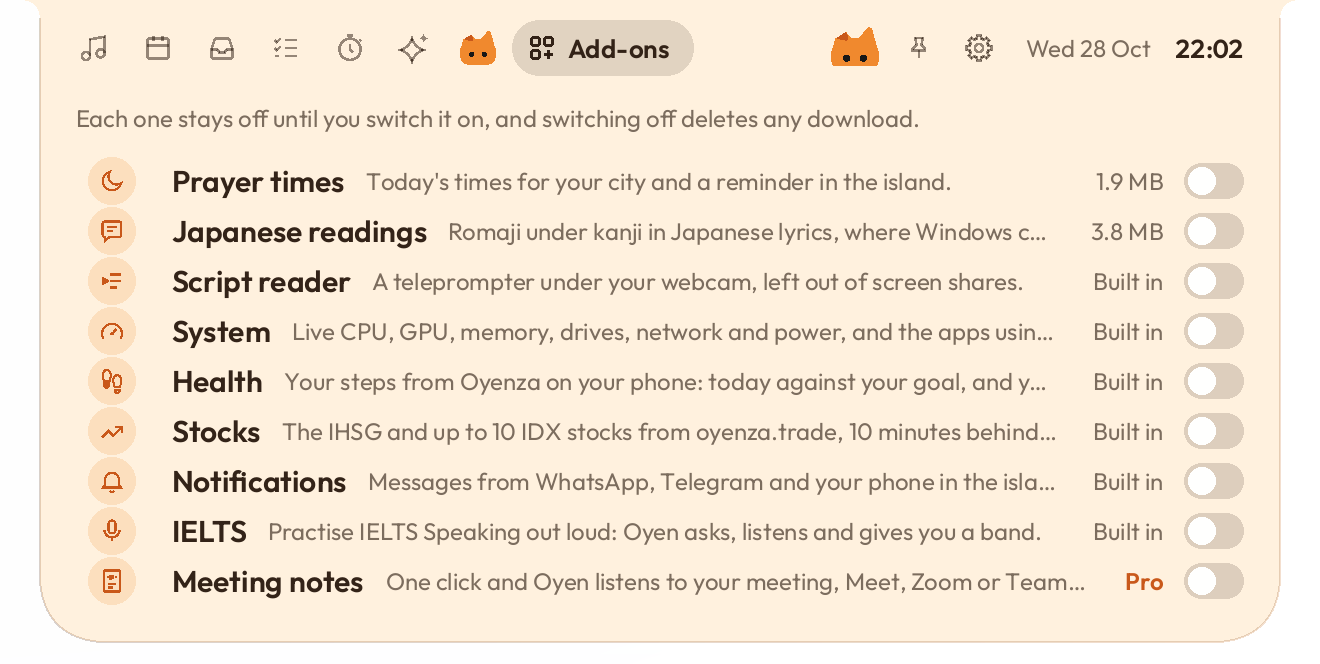
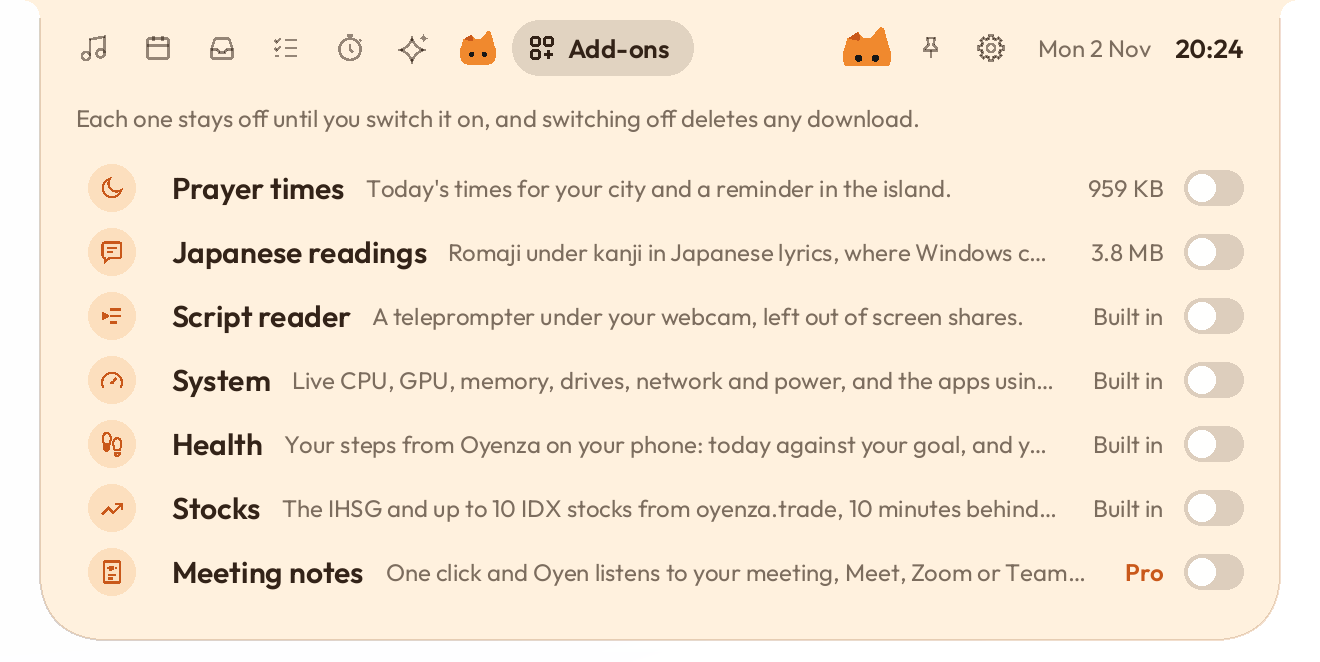
Release 0.2.25
A clearer adzan (#199, add-on files from addon-sholat-3), Antigravity on the AI tab on a Mac (#192), Notifications out of Add-ons and on by default where it can work (#165), the island over other apps' top bars on Windows (#166) and no double-tap zoom on Phone drop's QR page (#190). Version 0.2.25 in the usual files, notes in docs/release-notes/v0.2.25.md, and the website: New in 0.2.25 band (A clearer adzan and Antigravity on the AI tab first; Meeting notes on the Mac moves to the sheet under 0.2.19), the hero line and sidebar, Prayer times at 959 KB without "recorded at Masjidil Haram", the Add-ons pictures retaken (Notifications gone), and Antigravity in the AI sheet.

diff --git a/site/index.html b/site/index.html
@@ -724,7 +724,7 @@ dialog.more-sheet::backdrop { background: rgba(0, 0, 0, 0.42); -webkit-backdrop-
     <div class="side-sec">
       <p class="side-group">Overview</p>
       <a class="side-item" href="#top" data-k="home start download hero notch island"><i class="ic" style="--c:#1d1d1f"><svg class="ico"><use href="#i-screen"/></svg></i><span>A living notch</span></a>
-      <a class="side-item" href="#new" data-k="new release 0.2.23 latest changes move the island drag along the top edge left right side browser tabs out of the way centre center mac macbook notch pill menu bar settings in the island againgear advanced settings window island closes update in version row check now settings window glides smooth motion 144 fps 120 hz promotion slide switches highlight trackpad scroll reduce motion downloader progress youtube puzzle solving meeting notes mac ielts coach speaking band downloader video sound studio pro settings window gear every setting one place sidebar light dark mode mac window title bar meeting notes record call transcript summary action items pro ai tab usage codex claude code opencode go gemini cursor copilot kimi glm minimax openrouter limits plans resets heads-up tabs hide switch off music today shelf tasks focus prayer countdown ok lyrics come back steps two hours ielts notifications whatsapp telegram mac signed developer id notarized checked by apple opens open anyway gone privacy security permissions once more right click menu stays open island stays open always looks for new versions version check now bluetooth pop-ups headphones speakers paired quiet connected disconnected check for updates every hour check now update available stays lyrics bar zen firefox stocks prices fixed getting prices mac updates install in place ihsg idx saham watchlist chart oyenza.trade today five weeks week ahead schedule month grid dots allow turn on prayer times anywhere world city mac youtube spotify browser now playing pill notch oyen oyenza tab system health add-ons clipboard history gone today your day google calendar gmail meeting join flights bills clipboard add-on touch screen tablet taps tap through notch eyes hide and seek macbook camera update available new version install now next start updater mac installer dmg window steps health oyenza sign in mac headphones full screen power island stays maximized windows sing along romaji lyrics mac prayer script reader teleprompter games power"><i class="ic" style="--c:#bf4800"><svg class="ico"><use href="#i-spark"/></svg></i><span>New in 0.2.23</span></a>
+      <a class="side-item" href="#new" data-k="new release 0.2.25 latest changes clearer adzan azan athan adhan prayer times sound recording antigravity agy ai tab mac top bar mydockfinder menu bar over notifications store tabs phone drop double tap zoom move the island drag along the top edge left right side browser tabs out of the way centre center mac macbook notch pill menu bar settings in the island againgear advanced settings window island closes update in version row check now settings window glides smooth motion 144 fps 120 hz promotion slide switches highlight trackpad scroll reduce motion downloader progress youtube puzzle solving meeting notes mac ielts coach speaking band downloader video sound studio pro settings window gear every setting one place sidebar light dark mode mac window title bar meeting notes record call transcript summary action items pro ai tab usage codex claude code opencode go gemini cursor copilot kimi glm minimax openrouter limits plans resets heads-up tabs hide switch off music today shelf tasks focus prayer countdown ok lyrics come back steps two hours ielts notifications whatsapp telegram mac signed developer id notarized checked by apple opens open anyway gone privacy security permissions once more right click menu stays open island stays open always looks for new versions version check now bluetooth pop-ups headphones speakers paired quiet connected disconnected check for updates every hour check now update available stays lyrics bar zen firefox stocks prices fixed getting prices mac updates install in place ihsg idx saham watchlist chart oyenza.trade today five weeks week ahead schedule month grid dots allow turn on prayer times anywhere world city mac youtube spotify browser now playing pill notch oyen oyenza tab system health add-ons clipboard history gone today your day google calendar gmail meeting join flights bills clipboard add-on touch screen tablet taps tap through notch eyes hide and seek macbook camera update available new version install now next start updater mac installer dmg window steps health oyenza sign in mac headphones full screen power island stays maximized windows sing along romaji lyrics mac prayer script reader teleprompter games power"><i class="ic" style="--c:#bf4800"><svg class="ico"><use href="#i-spark"/></svg></i><span>New in 0.2.25</span></a>
       <a class="side-item" href="#highlights" data-k="best gallery overview"><i class="ic" style="--c:#ff9f0a"><svg class="ico"><use href="#i-spark"/></svg></i><span>Highlights</span></a>
       <a class="side-item" href="#features" data-k="rest idle music timer volume charging headphones bluetooth money clock eyes prayer countdown"><i class="ic" style="--c:#636366"><svg class="ico"><use href="#i-island"/></svg></i><span>While it rests</span></a>
     </div>
@@ -733,7 +733,7 @@ dialog.more-sheet::backdrop { background: rgba(0, 0, 0, 0.42); -webkit-backdrop-
       <a class="side-item" href="#music" data-k="music lyrics spotify apple youtube lrclib songs"><i class="ic" style="--c:#ff2d55"><svg class="ico"><use href="#i-music"/></svg></i><span>Music and lyrics</span></a>
       <a class="side-item" href="#read-along" data-k="korean japanese chinese romaji pinyin pronunciation reading kanji"><i class="ic" style="--c:#af52de"><svg class="ico"><use href="#i-lang"/></svg></i><span>Read along</span></a>
       <a class="side-item" href="#focus" data-k="pomodoro timer focus"><i class="ic" style="--c:#5856d6"><svg class="ico"><use href="#i-timer"/></svg></i><span>Focus</span></a>
-      <a class="side-item" href="#ai" data-k="ai usage codex claude code opencode go gemini cli cursor github copilot kimi code z.ai zai glm minimax openrouter oyenza inference limits plan quota credits balance spend resets heads-up notices new"><i class="ic" style="--c:#00c7be"><svg class="ico"><use href="#i-meter"/></svg></i><span>AI usage</span><span class="tag">New</span></a>
+      <a class="side-item" href="#ai" data-k="ai usage codex claude code opencode go gemini cli antigravity agy cursor github copilot kimi code z.ai zai glm minimax openrouter oyenza inference limits plan quota credits balance spend resets heads-up notices new"><i class="ic" style="--c:#00c7be"><svg class="ico"><use href="#i-meter"/></svg></i><span>AI usage</span><span class="tag">New</span></a>
       <a class="side-item" href="#health" data-k="steps health apple health connect add-on"><i class="ic" style="--c:#34c759"><svg class="ico"><use href="#i-steps"/></svg></i><span>Health</span></a>
       <a class="side-item" href="#shelf" data-k="files shelf drag drop"><i class="ic" style="--c:#007aff"><svg class="ico"><use href="#i-tray"/></svg></i><span>Shelf</span></a>
       <a class="side-item" href="#tasks" data-k="todo to-do tasks list"><i class="ic" style="--c:#ff9500"><svg class="ico"><use href="#i-list"/></svg></i><span>Tasks</span></a>
@@ -823,9 +823,9 @@ dialog.more-sheet::backdrop { background: rgba(0, 0, 0, 0.42); -webkit-backdrop-
           <div class="hero-copy">
             <h1 class="t-hero-eyebrow">Oyenza Studio</h1>
             <p class="t-hero">A living notch.</p>
-            <a class="t-avail" href="#new">New in 0.2.23: drag the island along the top edge on a Mac too, as on Windows.</a>
+            <a class="t-avail" href="#new">New in 0.2.25: a clearer adzan, and Antigravity on the AI tab on a Mac.</a>
             <div class="buybox">
-              <div><b>Free for Windows and Mac</b><span class="fine">Open source · Windows <span data-release="size">3.2&nbsp;MB</span> · Mac <span data-release="mac-size">5.8&nbsp;MB</span> · <a class="notes" data-release="notes" href="https://github.com/lucacadalora/oyenza-studio/releases/latest">What's new in <span data-release="version">0.2.24</span></a></span></div>
+              <div><b>Free for Windows and Mac</b><span class="fine">Open source · Windows <span data-release="size">3.2&nbsp;MB</span> · Mac <span data-release="mac-size">5.8&nbsp;MB</span> · <a class="notes" data-release="notes" href="https://github.com/lucacadalora/oyenza-studio/releases/latest">What's new in <span data-release="version">0.2.25</span></a></span></div>
               <a class="btn dl-primary" href="https://github.com/lucacadalora/oyenza-studio/releases/latest/download/Oyenza-Studio-Setup.exe"><span class="dl-word">Download</span><span class="send-word">Send to your computer</span></a>
             </div>
             <a class="link hero-other dl-other" data-release="mac-link" href="https://github.com/lucacadalora/oyenza-studio/releases/latest/download/Oyenza-Studio-Mac.dmg">Download for Mac</a>
@@ -845,20 +845,17 @@ dialog.more-sheet::backdrop { background: rgba(0, 0, 0, 0.42); -webkit-backdrop-
 
   <section class="sec band" id="new" aria-labelledby="new-title">
     <div class="content head rv">
-      <h2 class="t-l" id="new-title">New in 0.2.24.</h2>
+      <h2 class="t-l" id="new-title">New in 0.2.25.</h2>
       <button class="more" type="button" data-more="m-new">Everything new, release by release<i><svg class="ico"><use href="#i-plus"/></svg></i></button>
     </div>
     <div class="content news">
+      <a class="news-tile shot rv" href="#prayer">
+        <span class="news-visual top left" aria-hidden="true"><img class="look-classic" src="assets/shots/classic/page-prayer.webp" alt="" width="660" height="225" loading="lazy"><img class="look-oyen" src="assets/shots/oyen/page-prayer.webp" alt="" width="660" height="225" loading="lazy"></span>
+        <p class="t-card">A clearer adzan</p><p class="t-tile">Prayer times plays a new recording of the adzan: clear and full, without the crowd and the echo of the old one. The add-on is 959&nbsp;KB now, half its old size.</p>
+      </a>
       <a class="news-tile shot rv" href="#ai">
         <span class="news-visual top right" aria-hidden="true"><img class="look-classic" src="assets/shots/classic/page-ai.webp" alt="" width="660" height="335" loading="lazy"><img class="look-oyen" src="assets/shots/oyen/page-ai.webp" alt="" width="660" height="335" loading="lazy"></span>
-        <p class="t-card">Claude and Cursor are back</p><p class="t-tile">Use Claude Code through the Claude app? The AI tab shows your Claude plan now, and a signed-out card has a Sign in button. Cursor 3.27 reads again too.</p>
-      </a>
-      <a class="news-tile shot wide rv" href="#on-top">
-        <span class="news-visual" aria-hidden="true">
-          <span class="browser-top"><span class="browser-strip"></span><span class="browser-tabs"><span class="browser-tab on"><i></i><span>Inbox</span></span><span class="browser-tab"><i></i><span>Docs</span></span><span class="browser-new">+</span></span><svg class="browser-ctl" viewBox="0 0 108 31"><path d="M13 15.5h10M49.5 11h9v9h-9zM85.5 11l9 9m0-9-9 9"/></svg><span class="browser-url">Search or type a URL</span></span>
-          <span class="browser-isl"><img class="look-classic" src="assets/shots/classic/media-activity.webp" alt="" width="702" height="65" loading="lazy"><img class="look-oyen" src="assets/shots/oyen/media-activity.webp" alt="" width="654" height="65" loading="lazy"><svg class="browser-cursor" viewBox="0 0 28 16"><path d="M1.5 8 7.5 2v4h13V2l6 6-6 6v-4h-13v4z" fill="#000" stroke="#fff" stroke-width="1.4" stroke-linejoin="round"/></svg></span>
-        </span>
-        <p class="t-card">Move the island</p><p class="t-tile">Press the island and drag it along the top edge, out of your browser's tabs. It stays there, and opens away from the edge. On Windows, and now on a Mac: in every theme without a notch, and in Pill around a MacBook's notch.</p>
+        <p class="t-card">Antigravity on the AI tab</p><p class="t-tile">On a Mac, the AI tab shows Antigravity's 5-hour and weekly limits for each group of models. Since 0.2.24 it reads your Claude plan through the Claude app, and Cursor 3.27.</p>
       </a>
       <a class="news-tile shot rv" href="#settings">
         <span class="news-visual top left" aria-hidden="true"><img class="look-classic" src="assets/shots/classic/page-settings.webp" alt="" width="660" height="333" loading="lazy"><img class="look-oyen" src="assets/shots/oyen/page-settings.webp" alt="" width="660" height="333" loading="lazy"></span>
@@ -868,9 +865,12 @@ dialog.more-sheet::backdrop { background: rgba(0, 0, 0, 0.42); -webkit-backdrop-
         <span class="news-visual top left" aria-hidden="true"><img class="look-classic" src="assets/shots/classic/settings-window-appearance.webp" alt="" width="840" height="600" loading="lazy"><img class="look-oyen" src="assets/shots/oyen/settings-window-appearance.webp" alt="" width="840" height="600" loading="lazy"></span>
         <p class="t-card">Advanced settings that glide</p><p class="t-tile">Every setting in one window, light or dark like your system. Switches slide and highlights glide at your screen's own rate, up to 144 frames a second, on Windows and Mac.</p>
       </a>
-      <a class="news-tile shot rv" href="#pricing">
-        <span class="news-visual top left" aria-hidden="true"><img class="look-classic" src="assets/shots/mac/classic/page-notes-listening.webp" alt="" width="710" height="320" loading="lazy"><img class="look-oyen" src="assets/shots/mac/oyen/page-notes-listening.webp" alt="" width="710" height="320" loading="lazy"></span>
-        <p class="t-card">Meeting notes on the Mac</p><p class="t-tile">Oyen listens to your call through your Mac's microphone and its own sound, then writes the summary, the decisions and the whole transcript. Studio Pro; the Mac's own sound needs macOS 14.2 or later.</p>
+      <a class="news-tile shot wide rv" href="#on-top">
+        <span class="news-visual" aria-hidden="true">
+          <span class="browser-top"><span class="browser-strip"></span><span class="browser-tabs"><span class="browser-tab on"><i></i><span>Inbox</span></span><span class="browser-tab"><i></i><span>Docs</span></span><span class="browser-new">+</span></span><svg class="browser-ctl" viewBox="0 0 108 31"><path d="M13 15.5h10M49.5 11h9v9h-9zM85.5 11l9 9m0-9-9 9"/></svg><span class="browser-url">Search or type a URL</span></span>
+          <span class="browser-isl"><img class="look-classic" src="assets/shots/classic/media-activity.webp" alt="" width="702" height="65" loading="lazy"><img class="look-oyen" src="assets/shots/oyen/media-activity.webp" alt="" width="654" height="65" loading="lazy"><svg class="browser-cursor" viewBox="0 0 28 16"><path d="M1.5 8 7.5 2v4h13V2l6 6-6 6v-4h-13v4z" fill="#000" stroke="#fff" stroke-width="1.4" stroke-linejoin="round"/></svg></span>
+        </span>
+        <p class="t-card">Move the island</p><p class="t-tile">Press the island and drag it along the top edge, out of your browser's tabs. It stays there, and opens away from the edge. On Windows, and now on a Mac: in every theme without a notch, and in Pill around a MacBook's notch.</p>
       </a>
     </div>
   </section>
@@ -1209,7 +1209,7 @@ dialog.more-sheet::backdrop { background: rgba(0, 0, 0, 0.42); -webkit-backdrop-
     <div class="content head rv">
       <p class="t-label">Prayer times</p>
       <h3 class="t-l" id="prayer-title">Prayer times, for your city.</h3>
-      <p class="t-intro">As <b>Kemenag RI</b> publishes them, with a live countdown, today on one arc, the qibla and the adzan. New in 0.2.3: on the Mac too.</p>
+      <p class="t-intro">As <b>Kemenag RI</b> publishes them, with a live countdown, today on one arc, the qibla and the adzan, on Windows and Mac. New in 0.2.25: a clearer adzan.</p>
       <button class="more" type="button" data-more="m-prayer">More about prayer times<i><svg class="ico"><use href="#i-plus"/></svg></i></button>
     </div>
     <div class="content">
@@ -1224,7 +1224,7 @@ dialog.more-sheet::backdrop { background: rgba(0, 0, 0, 0.42); -webkit-backdrop-
       <div class="stats">
         <div class="stat rv"><small>Picks from</small><b>517</b><span>Kemenag places, the nearest one found for you.</span></div>
         <div class="stat rv"><small>Matches</small><b>98.2%</b><span>of 227,367 times in Kemenag's 2026 schedule, to the minute.</span></div>
-        <div class="stat rv"><small>An add-on of</small><b>1.9&nbsp;MB</b><span>downloaded only when you switch it on.</span></div>
+        <div class="stat rv"><small>An add-on of</small><b>959&nbsp;KB</b><span>downloaded only when you switch it on.</span></div>
       </div>
     </div>
   </section>
@@ -1255,7 +1255,7 @@ dialog.more-sheet::backdrop { background: rgba(0, 0, 0, 0.42); -webkit-backdrop-
         <h3 class="t-l" id="addons-title">Download only what you use.</h3>
         <p class="t-intro">Each stays off until you switch it on. Downloads are <b>checked against a fingerprint</b> built into the app.</p>
         <div class="stats three">
-          <div class="stat"><b>1.9&nbsp;MB</b><span>Prayer times</span></div>
+          <div class="stat"><b>959&nbsp;KB</b><span>Prayer times</span></div>
           <div class="stat"><b>3.8&nbsp;MB</b><span>Japanese readings</span></div>
           <div class="stat"><b>Built&nbsp;in</b><span>Script reader, System, Health and Stocks</span></div>
         </div>
@@ -1263,8 +1263,8 @@ dialog.more-sheet::backdrop { background: rgba(0, 0, 0, 0.42); -webkit-backdrop-
       <div class="panel rv-zoom" data-scene="par" style="--band:28px">
         <div class="sky-layer"></div>
         <div class="isl">
-          <img class="look-classic" src="assets/shots/classic/page-addons.webp" alt="The Add-ons tab, a line each: Prayer times (1.9 MB), Japanese readings (3.8 MB), Script reader, System, Health, Stocks, Notifications and IELTS (built in) and Meeting notes (Pro), each with its switch off" width="660" height="332" loading="lazy">
-          <img class="look-oyen" src="assets/shots/oyen/page-addons.webp" alt="The Add-ons tab in the Oyen theme" width="660" height="332" loading="lazy">
+          <img class="look-classic" src="assets/shots/classic/page-addons.webp" alt="The Add-ons tab, a line each: Prayer times (959 KB), Japanese readings (3.8 MB), Script reader, System, Health and Stocks (built in) and Meeting notes (Pro), each with its switch off" width="660" height="331" loading="lazy">
+          <img class="look-oyen" src="assets/shots/oyen/page-addons.webp" alt="The Add-ons tab in the Oyen theme" width="660" height="331" loading="lazy">
         </div>
       </div>
     </div>
@@ -1703,6 +1703,7 @@ dialog.more-sheet::backdrop { background: rgba(0, 0, 0, 0.42); -webkit-backdrop-
       <li>Claude Code</li>
       <li>OpenCode Go</li>
       <li>Gemini CLI</li>
+      <li>Antigravity</li>
       <li>Cursor</li>
       <li>GitHub Copilot</li>
       <li>Kimi Code</li>
@@ -1716,6 +1717,7 @@ dialog.more-sheet::backdrop { background: rgba(0, 0, 0, 0.42); -webkit-backdrop-
     <h4>Your sign-ins stay yours</h4>
     <p>Each service's sign-in is read on your computer and goes only to that service's own server. <b>Nothing about your usage goes to Oyenza.</b> Oyenza Studio only reads: it never changes another app's files or renews its sign-in, so it can't sign you out of that app. When a sign-in has run out, the card says so: open that app once and it's back.</p>
     <p><b>Claude Code through the Claude app.</b> If you run Claude Code from the Claude app, its card uses the sign-in the app keeps for Claude Code. When Claude Code is signed out, its card has <b>Sign in</b>: it starts Claude Code's own sign-in in a terminal window, or opens the Claude app. On a Mac, macOS asks once before the Claude app's or Cursor's sign-in is read: choose Always Allow.</p>
+    <p><b>Antigravity, on a Mac.</b> Google answers Antigravity's limits only to Antigravity itself, so the AI tab asks Antigravity's own <code>agy</code>, through its <code>/usage</code> command, which uses none of your quota. It runs it only while the AI tab is open, at most every 15 minutes, and never opens a browser: when <code>agy</code> wants you to sign in again, the card says so; sign in to Antigravity, then press Refresh. It needs <code>agy</code> 1.1.11 or later. New in 0.2.25; on Windows, not yet.</p>
     <h4>Oyenza Inference</h4>
     <p>Connect your inference.oyenza.com account the way you sign in on a TV: the AI tab shows 8 letters, and you approve them in your inference.oyenza.com dashboard. Oyenza Studio then gets a key that can only read your balance and spend. It never sees your prompts, keys or payments, and it can't spend your credit. Disconnect it in the AI tab, or in the dashboard under Connected apps.</p>
   </div>
@@ -1748,9 +1750,9 @@ dialog.more-sheet::backdrop { background: rgba(0, 0, 0, 0.42); -webkit-backdrop-
     <p class="t-label">Prayer times · An add-on</p>
     <h2 class="t-m" id="m-prayer-t">Prayer times, for your city.</h2>
     <p>Today's times as Kemenag RI publishes them for your kab/kota, the next prayer and how long until it, and the qibla. <b>New in 0.2.1:</b> the page counts down to the next prayer in hours, minutes and seconds, and shows today's five prayers on one arc, with the sun or the moon. <b>New in 0.2.10:</b> anywhere in the world. Type any city, or let the location find it: 33,000 cities, each with the method its country follows, on its own clock, summer time included. <b>Your computer's location finds the nearest of Kemenag's 517 places</b>, from Windows' location or the Mac's Location Services, and checks again when your laptop travels, or you type your city. The point stays on your computer: it only picks the place.</p>
-    <p>In the ten minutes before each prayer the island counts down, and when it's time it says so, with a short tone, the adzan recorded at Masjidil Haram, or nothing. Checked against Kemenag's 2026 schedule: 98.2% of 227,367 times to the minute, none more than a minute off. Makkah, Madinah and Jeddah use Umm al-Qura.</p>
+    <p>In the ten minutes before each prayer the island counts down, and when it's time it says so, with a short tone, the adzan, or nothing. <b>New in 0.2.25:</b> a clearer adzan, a new recording without the crowd and the echo of the old one ("The Adhan - Muslim Call to Prayer - Aaqib Azeez" by Atcovi, Wikimedia Commons, CC BY-SA 4.0). Checked against Kemenag's 2026 schedule: 98.2% of 227,367 times to the minute, none more than a minute off. Makkah, Madinah and Jeddah use Umm al-Qura.</p>
     <p><b>New in 0.2.3: on the Mac.</b> Prayer times is in the Mac's Add-ons tab too, with the adzan. Around a MacBook's notch the countdown sits beside the camera: the moon on the left, the minutes on the right.</p>
-    <p>Prayer times is an add-on: open the + at the end of the tabs and switch it on. It downloads then, 1.9 MB, checked against the fingerprint built into the app, and switching it off deletes its files.</p>
+    <p>Prayer times is an add-on: open the + at the end of the tabs and switch it on. It downloads then, 959 KB, checked against the fingerprint built into the app, and switching it off deletes its files.</p>
   </div>
 </dialog>
 <dialog class="more-sheet" id="m-script" aria-labelledby="m-script-t">
@@ -1898,6 +1900,7 @@ dialog.more-sheet::backdrop { background: rgba(0, 0, 0, 0.42); -webkit-backdrop-
     <h2 class="t-m" id="m-new-t">Release by release.</h2>
     <h4>New in 0.2.19</h4>
     <ul class="new-list">
+      <li><i class="ic" style="--c:#34c759"><svg class="ico"><use href="#i-tag"/></svg></i><span><b>Meeting notes on the Mac</b>Oyen listens to your call through your Mac's microphone and its own sound, then writes the summary, the decisions and the whole transcript. Studio Pro; the Mac's own sound needs macOS 14.2 or later.</span></li>
       <li><i class="ic" style="--c:#34c759"><svg class="ico"><use href="#i-tag"/></svg></i><span><b>The IELTS coach</b>Oyen asks IELTS Speaking questions out loud, listens to your answers and gives you a band. Studio Pro, now on Windows and Mac.</span></li>
       <li><i class="ic" style="--c:#34c759"><svg class="ico"><use href="#i-tag"/></svg></i><span><b>The Downloader</b>Paste a link, pick Video or Sound, and watch it come in to Downloads and the Shelf. Studio Pro, on Windows and Mac. Only what you have the right to keep.</span></li>
     </ul>

diff --git a/docs/release-notes/v0.2.25.md b/docs/release-notes/v0.2.25.md
@@ -1,0 +1,19 @@
+**A clearer adzan in Prayer times.** The adzan is a new recording, clean and full, without the crowd, the echo and the phone-call sound of the old one: "The Adhan - Muslim Call to Prayer - Aaqib Azeez" by Atcovi, from Wikimedia Commons under CC BY-SA 4.0 (the credit and licence come with the add-on, in `NOTICE.txt`). The Prayer times add-on is 959 KB now instead of 1.9 MB. If you have it on, it downloads the new files once after the update, checked against the fingerprint built into the app, and deletes the old ones.
+
+**Antigravity on the AI tab, on a Mac.** Antigravity (`agy`), which took over from Gemini CLI, gets a card: the 5-hour and weekly limits of each group of models, Gemini, Claude and GPT. The AI tab asks `agy` itself, through its own `/usage` command, which uses none of your quota: only while the AI tab is open, and at most every 15 minutes. It needs `agy` 1.1.11 or later. It never opens a browser: if `agy` wants you to sign in again, the card says so; sign in to Antigravity, then press **Refresh** on the AI tab. On Windows, the AI tab doesn't read Antigravity yet. Thanks to itzmail (#192).
+
+**Notifications isn't an add-on any more.** Windows lets only the Microsoft Store copy of an app read other apps' notifications, so in the download from GitHub, Notifications' switch in Add-ons could only open a tab that said so. Add-ons doesn't list it now. Where it can work, in the Store copy, Notifications is on from the start, reads nothing until you press **Allow** and Windows says yes, and switches off under **Tabs** in Settings.
+
+**On Windows, the island hangs over other top bars.** If an app such as MyDockFinder puts a Mac-style menu bar at the top of your screen, the island now hangs from the top edge over it, the way a MacBook's notch sits over the menu bar, instead of below it. A Windows taskbar at the top still moves the island below it. Thanks to natsutamura (#166).
+
+**Phone drop:** the page your phone opens from the QR code no longer zooms in on a double tap. Pinch still zooms.
+
+Everything new in 0.2.24 is here too: Claude Code and Cursor on the AI tab again. See the [0.2.24 notes](https://github.com/lucacadalora/oyenza-studio/releases/tag/v0.2.24).
+
+**Install:** download `Oyenza-Studio-Setup.exe` and run it. It installs just for you (no admin rights) and can start with Windows. Or unzip the portable zip and run `Poni\poni.exe`. Links to `Oyen-Poni-Setup.exe` keep working: every release carries that file too.
+
+**On a Mac:** open `Oyenza-Studio-Mac.dmg`, drag Oyenza Studio into Applications and open it. macOS asks once whether to open an app downloaded from the internet: click **Open**.
+
+**Upgrading:** the island says **Update available** within the hour on 0.2.13 to 0.2.24, and within half a day on 0.2.6 to 0.2.12; **Install now** in the Update sheet installs it for you. On a Mac, a copy older than 0.2.12 downloads the DMG instead: open it and drag Oyenza Studio into Applications. If macOS doesn't let a copy replace itself, it opens the DMG for you to do the same. Either way it upgrades in place and keeps your settings, data, add-ons and Oyenza sign-in.
+
+The Windows build isn't code-signed yet, so Windows SmartScreen may say "Windows protected your PC". Click **More info → Run anyway**.
